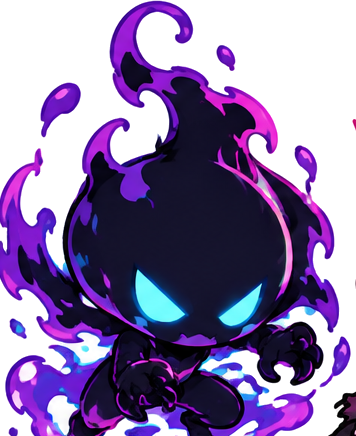
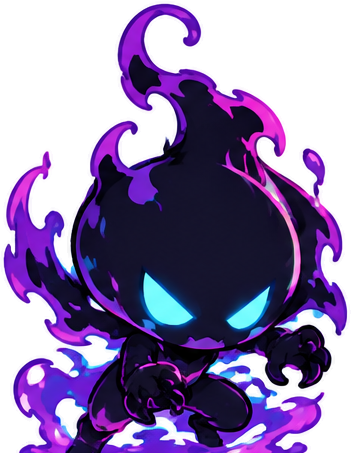
Fix bad cropping on the 8 shadow-entity decorations
The original crop used simple grid cells with insets, which still let
fragments of neighboring sprites bleed in since the sheet's artwork
overlaps cell boundaries. Redid the extraction using connected-component
isolation (keep only the blob connected to each cell's center, discard
disconnected fragments), which cleanly removes all bleed from adjacent
creatures.

diff --git a/characters.html b/characters.html
@@ -4,7 +4,7 @@
   <meta charset="UTF-8" />
   <meta name="viewport" content="width=device-width, initial-scale=1.0" />
   <title>Characters — Sanrio Chronicles</title>
-  <link rel="stylesheet" href="css/style.css?v=29" />
+  <link rel="stylesheet" href="css/style.css?v=30" />
   <link href="https://fonts.googleapis.com/css2?family=Nunito:wght@400;600;700;900&display=swap" rel="stylesheet" />
 </head>
 <body>

diff --git a/gallery.html b/gallery.html
@@ -4,7 +4,7 @@
   <meta charset="UTF-8" />
   <meta name="viewport" content="width=device-width, initial-scale=1.0" />
   <title>Gallery — Sanrio Chronicles</title>
-  <link rel="stylesheet" href="css/style.css?v=29" />
+  <link rel="stylesheet" href="css/style.css?v=30" />
   <link href="https://fonts.googleapis.com/css2?family=Nunito:wght@400;600;700;900&display=swap" rel="stylesheet" />
 </head>
 <body>

diff --git a/index.html b/index.html
@@ -4,7 +4,7 @@
   <meta charset="UTF-8" />
   <meta name="viewport" content="width=device-width, initial-scale=1.0" />
   <title>Sanrio Chronicles</title>
-  <link rel="stylesheet" href="css/style.css?v=29" />
+  <link rel="stylesheet" href="css/style.css?v=30" />
   <link href="https://fonts.googleapis.com/css2?family=Nunito:wght@400;600;700;900&display=swap" rel="stylesheet" />
 </head>
 <body>
